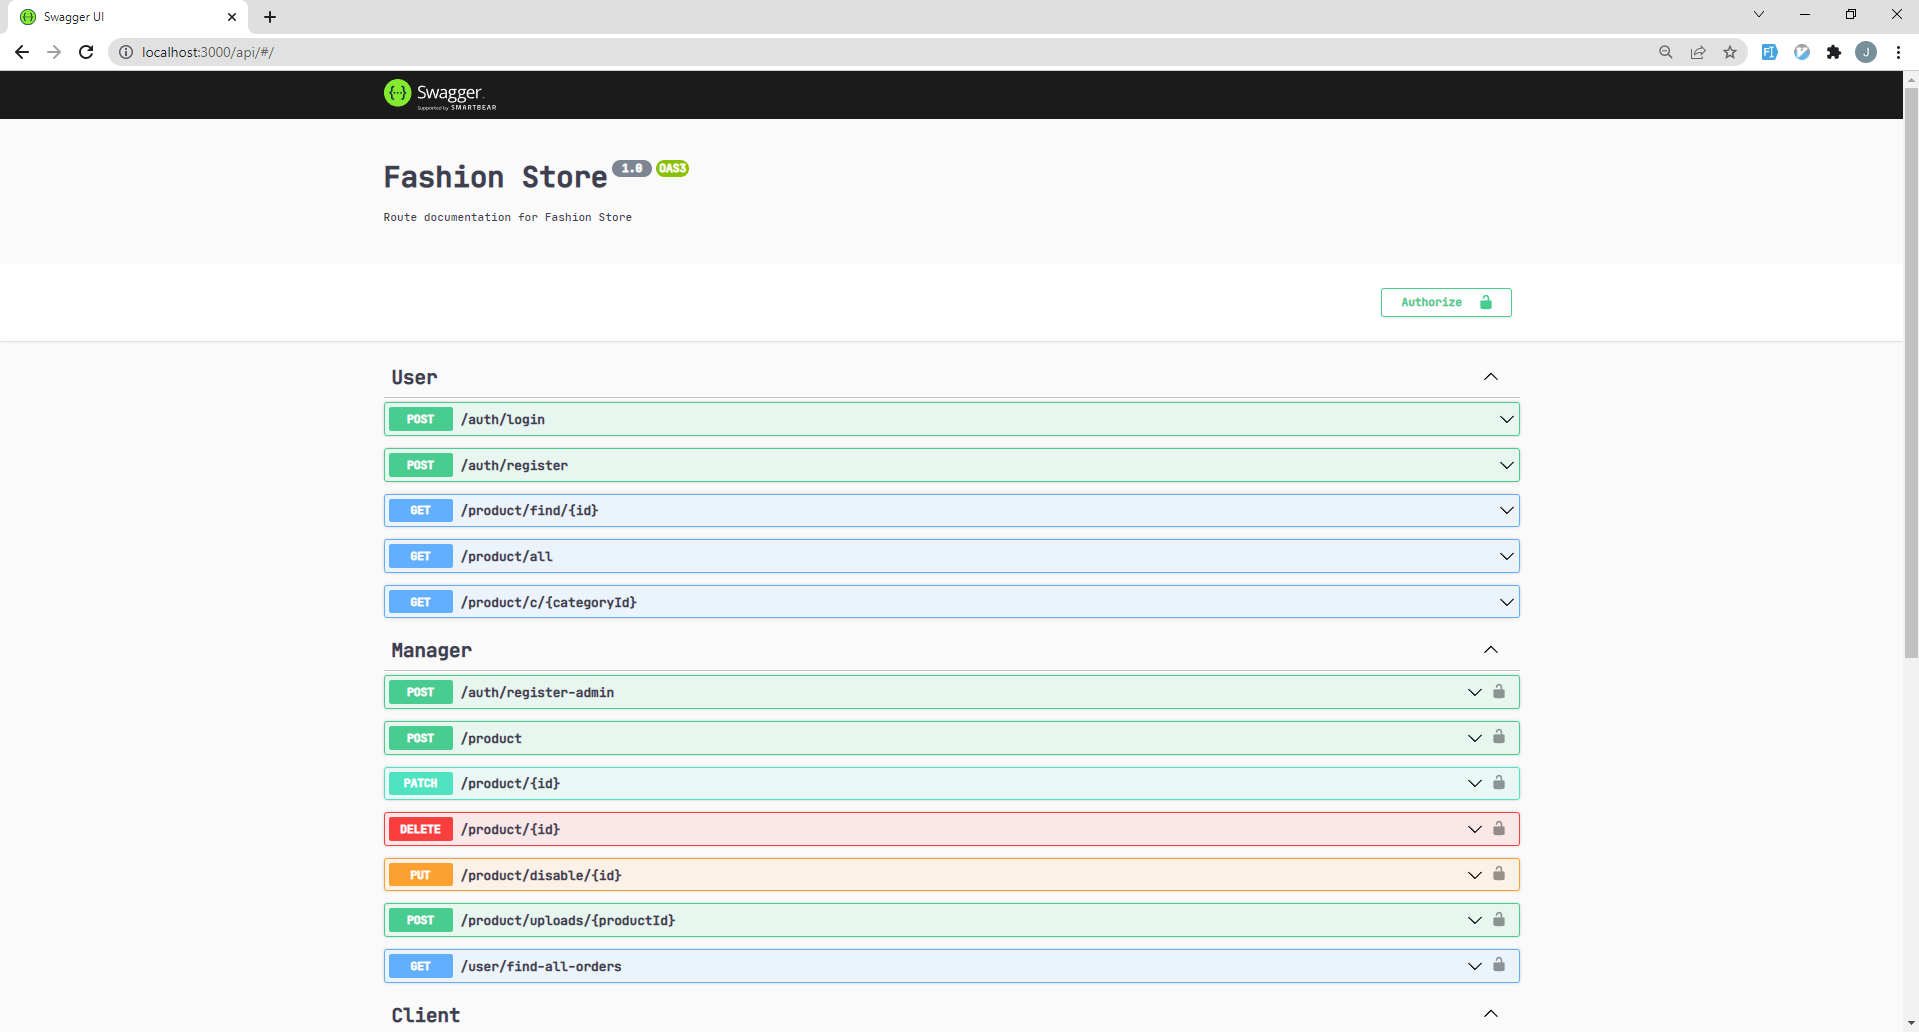
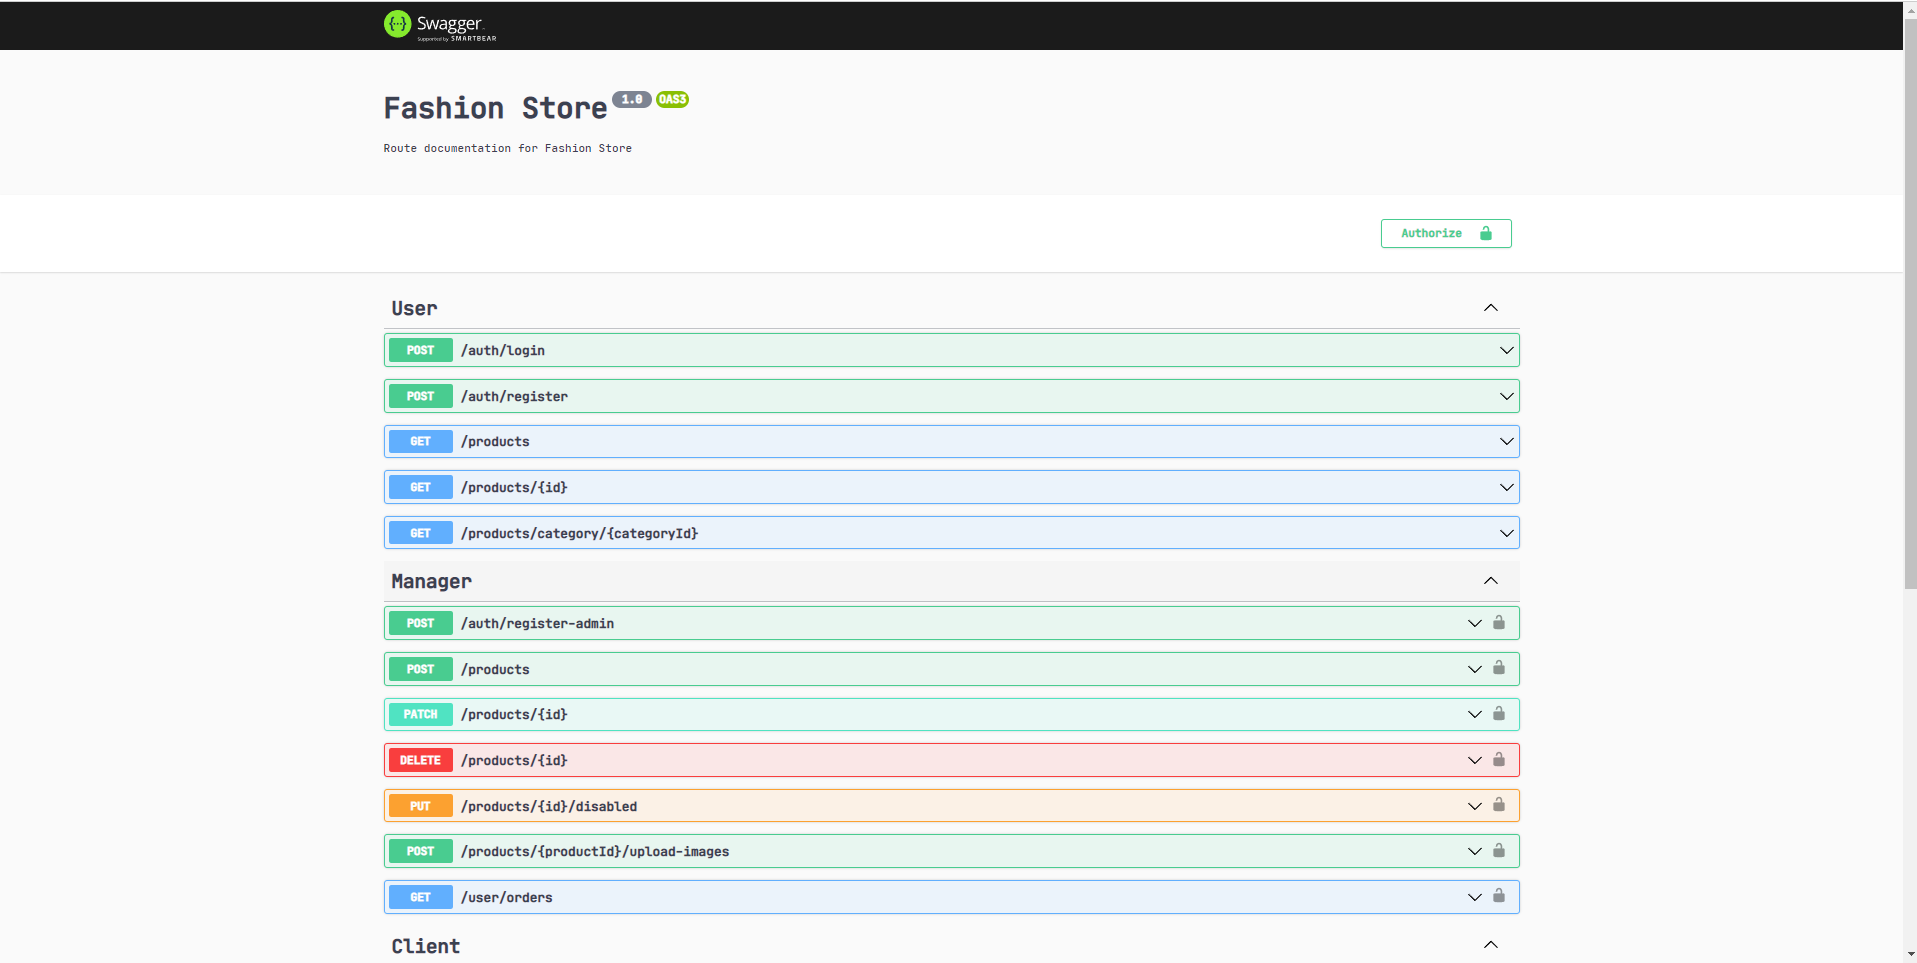
refactor: improving the Controller path names

diff --git a/src/products/services/products.service.spec.ts b/src/products/services/products.service.spec.ts
@@ -55,19 +55,14 @@ describe('Product module', () => {
   });
 
   describe('Find products by category', () => {
-    it('should throw error if category ID is not sent', async () => {
-      const categoryId = null;
-
-      await request(app.getHttpServer())
-        .get('/product/c/' + categoryId)
-        .expect(400);
-    });
     it('should return all the products in the category', async () => {
-      const categoryId = 1;
+      const category = await productService.createCategory();
+      const products = await productService.getByCategory(category.id, '', {
+        page: 0,
+        itemsPerPage: 10,
+      });
 
-      await request(app.getHttpServer())
-        .get('/product/c/' + categoryId)
-        .expect(200);
+      expect(products.length).toBeGreaterThanOrEqual(0);
     });
   });
 
@@ -84,7 +79,7 @@ describe('Product module', () => {
 
   describe('Create product', () => {
     it('should throw authentication error if token not send', async () => {
-      await request(app.getHttpServer()).post('/product').expect(401);
+      await request(app.getHttpServer()).post('/products').expect(401);
     });
 
     it('should throw error if required fields are not submitted', async () => {
@@ -122,7 +117,7 @@ describe('Product module', () => {
 
   describe('Update product', () => {
     it('should throw authentication error if token not send', async () => {
-      await request(app.getHttpServer()).patch('/product/1').expect(401);
+      await request(app.getHttpServer()).patch('/products/1').expect(401);
     });
 
     it('should throw error if product does not exist', async () => {
@@ -156,7 +151,7 @@ describe('Product module', () => {
 
   describe('Delete product', () => {
     it('should throw authentication error if token not send', async () => {
-      await request(app.getHttpServer()).delete('/product/1').expect(401);
+      await request(app.getHttpServer()).delete('/products/1').expect(401);
     });
 
     it('should throw error if product does not exist', async () => {
@@ -184,7 +179,9 @@ describe('Product module', () => {
 
   describe('Disable product', () => {
     it('should throw authentication error if token not send', async () => {
-      await request(app.getHttpServer()).put('/product/disable/1').expect(401);
+      await request(app.getHttpServer())
+        .put('/products/1/disabled')
+        .expect(401);
     });
 
     it('should throw error if product does not exist', async () => {

diff --git a/src/products/products.controller.ts b/src/products/products.controller.ts
@@ -31,19 +31,12 @@ import { FilesUploadDto } from './dto/file-upload.dto';
 import { diskStorage } from 'multer';
 import { extname } from 'path';
 
-@Controller('product')
+@Controller('products')
 export class ProductsController {
   constructor(private readonly productService: ProductsService) {}
 
   @ApiTags('User')
-  @Get('find/:id')
-  @Public()
-  async findOne(@Param('id', ParseIntPipe) id: number) {
-    return await this.productService.findOne(id);
-  }
-
-  @ApiTags('User')
-  @Get('all')
+  @Get('')
   @Public()
   @ApiQuery({ name: 'page', required: false })
   @ApiQuery({ name: 'itemsPerPage', required: false })
@@ -56,7 +49,14 @@ export class ProductsController {
   }
 
   @ApiTags('User')
-  @Get('c/:categoryId')
+  @Get(':id')
+  @Public()
+  async findOne(@Param('id', ParseIntPipe) id: number) {
+    return await this.productService.findOne(id);
+  }
+
+  @ApiTags('User')
+  @Get('category/:categoryId')
   @Public()
   @ApiQuery({ name: 'productName', required: false })
   @ApiQuery({ name: 'itemsPerPage', required: false })
@@ -95,7 +95,7 @@ export class ProductsController {
     description: 'The record has been successfully updated.',
   })
   async update(
-    @Param("id", ParseIntPipe)  id : number,
+    @Param('id', ParseIntPipe) id: number,
     @Body() productDto: ProductDto,
   ) {
     return await this.productService.update(id, productDto);
@@ -109,24 +109,24 @@ export class ProductsController {
     status: 200,
     description: 'The record has been successfully deleted.',
   })
-  async remove(@Param("id", ParseIntPipe) id: number) {
+  async remove(@Param('id', ParseIntPipe) id: number) {
     return await this.productService.remove(id);
   }
 
   @ApiTags('Manager')
   @ApiBearerAuth()
   @Roles(Role.Admin)
-  @Put('disable/:id')
+  @Put(':id/disabled')
   @ApiResponse({
     status: 200,
     description: 'The record has been successfully disabled.',
   })
-  async disableProduct(@Param("id", ParseIntPipe)  id: number ) {
+  async disableProduct(@Param('id', ParseIntPipe) id: number) {
     return await this.productService.disableProduct(id);
   }
 
   @ApiTags('Manager')
-  @Post('uploads/:productId')
+  @Post(':productId/upload-images')
   @ApiBearerAuth()
   @Roles(Role.Admin)
   @UseInterceptors(

diff --git a/src/users/users.controller.ts b/src/users/users.controller.ts
@@ -20,7 +20,7 @@ export class UsersController {
   @ApiTags('Client')
   @ApiBearerAuth()
   @ApiQuery({ name: 'productId' })
-  @Get('like-product/:productId')
+  @Get(':productId/like')
   async likeProduct(
     @Request() { user },
     @Query('productId', ParseIntPipe) productId: number,
@@ -37,7 +37,7 @@ export class UsersController {
 
   @ApiTags('Client')
   @ApiBearerAuth()
-  @Get('buy-products')
+  @Post('buy-products')
   async buyProducts(@Request() { user }) {
     return await this.usersServices.buyProducts(user.userId);
   }
@@ -45,7 +45,7 @@ export class UsersController {
   @ApiTags('Client')
   @ApiBearerAuth()
   @ApiQuery({ name: 'orderId' })
-  @Get('find-my-order/:orderId')
+  @Get('order/:orderId')
   async findMyOrder(
     @Request() { user },
     @Query('orderId', ParseIntPipe) orderId: number,
@@ -56,7 +56,7 @@ export class UsersController {
   @ApiTags('Manager')
   @ApiBearerAuth()
   @Roles(Role.Admin)
-  @Get('find-all-orders')
+  @Get('orders')
   async findAllOrders() {
     return await this.usersServices.findAllOrders();
   }

diff --git a/src/users/services/users.service.spec.ts b/src/users/services/users.service.spec.ts
@@ -34,7 +34,7 @@ describe('User module', () => {
   describe('Show client orders', () => {
     it('should throw authentication error if token not send', async () => {
       await request(app.getHttpServer())
-        .get('/user/find-all-orders')
+        .get('/user/orders')
         .expect(401);
     });
 
@@ -85,7 +85,7 @@ describe('User module', () => {
 
   describe('Buy products', () => {
     it('should throw authentication error if token not send', async () => {
-      await request(app.getHttpServer()).get('/user/buy-products').expect(401);
+      await request(app.getHttpServer()).post('/user/buy-products').expect(401);
     });
      it('should throw  an exception when there are no products', async () => {
       try {
